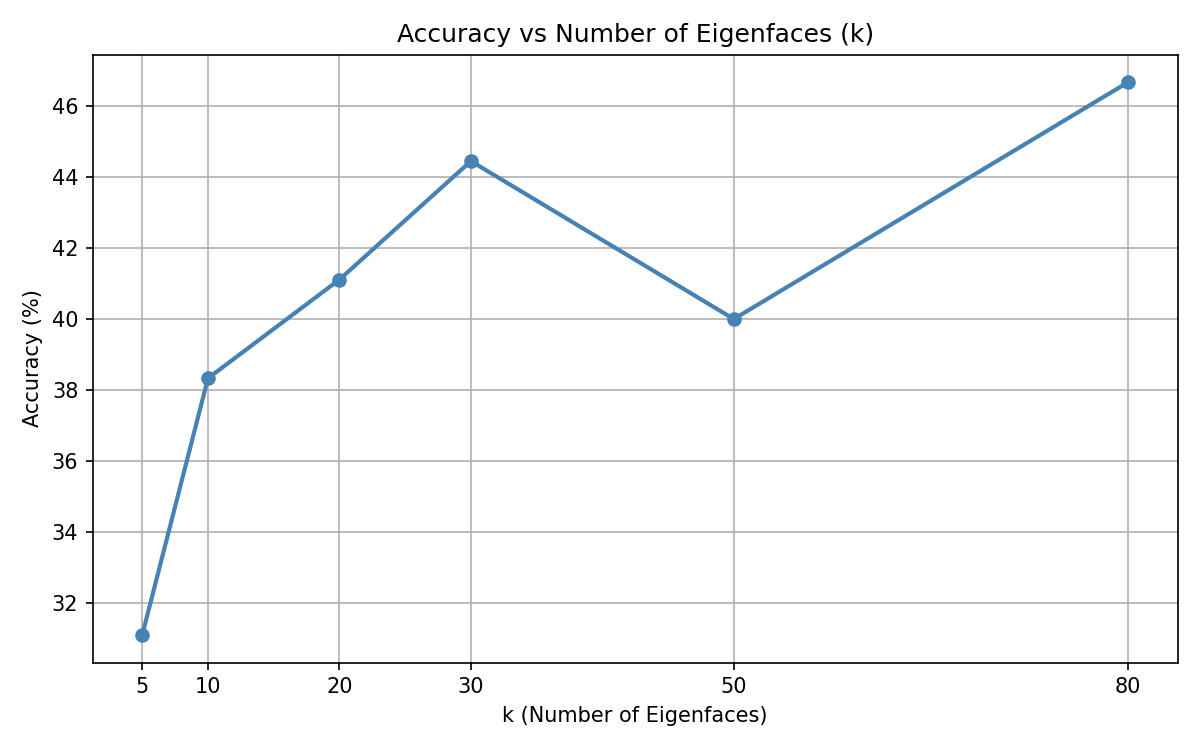
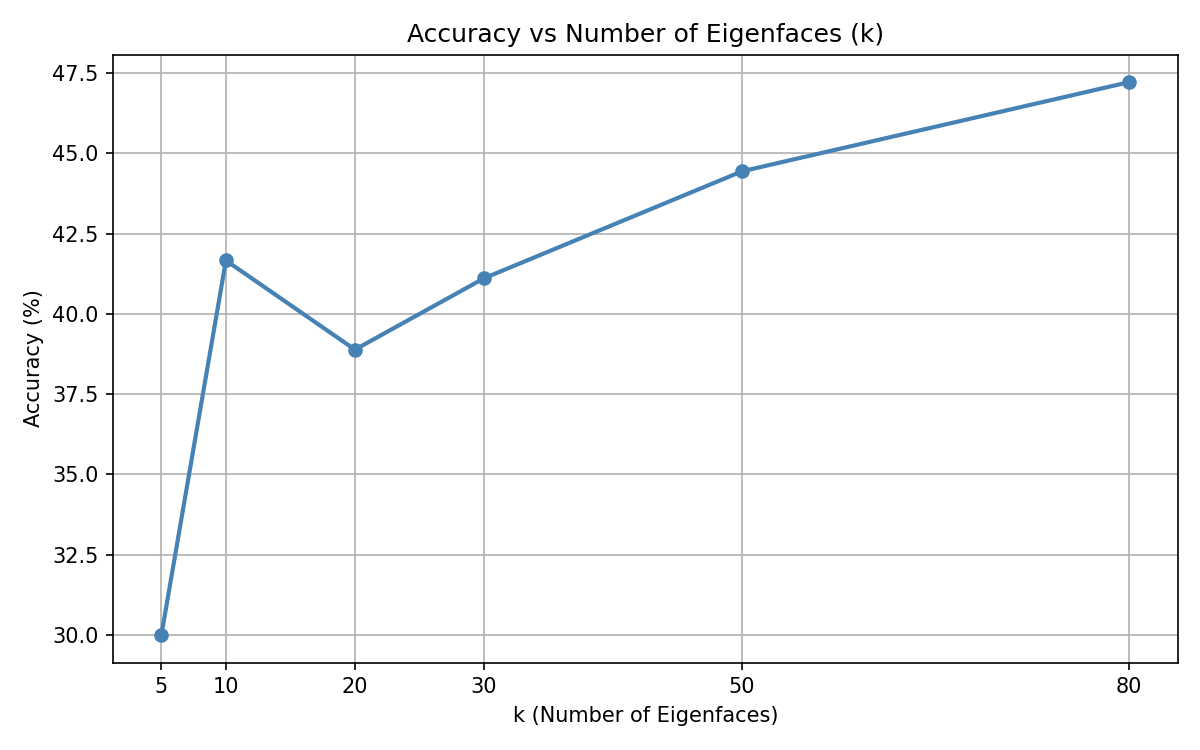
remove pycache

diff --git a/train.py b/train.py
@@ -1,34 +1,32 @@
-import numpy as np
+import numpy as np  
 import matplotlib.pyplot as plt
 from sklearn.model_selection import train_test_split
 from sklearn.preprocessing import label_binarize
 from utils import load_dataset
 from pca import *
 from ann import ANN
-
-# ── CONFIG ──────────────────────────────────────────────────────
-DATASET_PATH = "dataset/faces"  # path to dataset folder
+ 
+DATASET_PATH = "dataset/faces"  
 IMG_SIZE = (50, 50)
-K_VALUES = [5, 10, 20, 30, 50, 80]   # values of k to test
-IMPOSTER_THRESHOLD = 50.0             # Euclidean distance threshold for imposters
+K_VALUES = [5, 10, 20, 30, 50, 80]   
+IMPOSTER_THRESHOLD = 50.0              
 HIDDEN_SIZE = 128
 EPOCHS = 1000
 LR = 0.01
-# ────────────────────────────────────────────────────────────────
-
-# Load data
+ 
+ 
 print("Loading dataset...")
 face_db, labels, label_names = load_dataset(DATASET_PATH, IMG_SIZE)
 n_classes = len(label_names)
 print(f"  Total images: {face_db.shape[1]}, Classes: {n_classes}")
 
-# Train/test split (60/40)
+ 
 X_train, X_test, y_train, y_test = train_test_split(
     face_db.T, labels, test_size=0.4, stratify=labels, random_state=42
 )
-X_train, X_test = X_train.T, X_test.T   # back to (mn, samples)
+X_train, X_test = X_train.T, X_test.T   
 
-# PCA Steps
+ 
 mean_face = compute_mean(X_train)
 phi_train = mean_zero(X_train, mean_face)
 phi_test  = mean_zero(X_test,  mean_face)
@@ -41,25 +39,21 @@ for k in K_VALUES:
     print(f"\n── k = {k} ──")
     V_k = get_feature_vectors(eigenvectors, k)
     eigenfaces = compute_eigenfaces(V_k, phi_train)
-    
-    # Signatures (projected features)
-    Omega_train = compute_signatures(eigenfaces, phi_train)  # (k, train_samples)
-    Omega_test  = eigenfaces @ phi_test                       # (k, test_samples)
-
-    # One-hot encode labels
-    Y_train_oh = label_binarize(y_train, classes=range(n_classes)).T  # (classes, samples)
-
-    # Build and train ANN
+ 
+    Omega_train = compute_signatures(eigenfaces, phi_train)   
+    Omega_test  = eigenfaces @ phi_test                          
+ 
+    Y_train_oh = label_binarize(y_train, classes=range(n_classes)).T   
+ 
     ann = ANN(input_size=k, hidden_size=HIDDEN_SIZE, output_size=n_classes, lr=LR)
     ann.train(Omega_train, Y_train_oh, epochs=EPOCHS)
-
-    # Evaluate
+ 
     preds = ann.predict(Omega_test)
     acc = np.mean(preds == y_test) * 100
     accuracies.append(acc)
     print(f"  Accuracy at k={k}: {acc:.2f}%")
 
-# Plot Accuracy vs k
+ 
 plt.figure(figsize=(8, 5))
 plt.plot(K_VALUES, accuracies, marker='o', linewidth=2, color='steelblue')
 plt.title("Accuracy vs Number of Eigenfaces (k)")

diff --git a/test.py b/test.py
@@ -4,19 +4,17 @@ import os
 from utils import load_dataset
 from pca import *
 from ann import ANN
-from sklearn.model_selection import train_test_split
-from sklearn.preprocessing import label_binarize
-
-# ── CONFIG ──────────────────────────────────────────────────────
-DATASET_PATH    = "dataset/faces"  # path to dataset folder
-IMPOSTER_PATH   = "imposters"   # Folder with imposter images
+from sklearn.model_selection import train_test_split 
+from sklearn.preprocessing import label_binarize 
+ 
+DATASET_PATH    = "dataset/faces"  
+IMPOSTER_PATH   = "imposters"   
 IMG_SIZE        = (50, 50)
-K               = 30            # Best k from part (a)
+K               = 30            
 HIDDEN_SIZE     = 128
 EPOCHS          = 1000
 LR              = 0.01
-CONFIDENCE_THRESHOLD = 0.70   # If max softmax < this → imposter
-# ────────────────────────────────────────────────────────────────
+CONFIDENCE_THRESHOLD = 0.70  
 
 face_db, labels, label_names = load_dataset(DATASET_PATH, IMG_SIZE)
 n_classes = len(label_names)
@@ -41,8 +39,8 @@ ann.train(Omega_train, Y_train_oh, epochs=EPOCHS)
 def recognize(img_path, ann, eigenfaces, mean_face, label_names, threshold=CONFIDENCE_THRESHOLD):
     img = cv2.imread(img_path, cv2.IMREAD_GRAYSCALE)
     img = cv2.resize(img, IMG_SIZE)
-    omega = project_test_face(eigenfaces, img, mean_face)  # (k, 1)
-    proba = ann.predict_proba(omega)                        # (n_classes, 1)
+    omega = project_test_face(eigenfaces, img, mean_face)   
+    proba = ann.predict_proba(omega)                        
     max_conf = np.max(proba)
     pred_label = np.argmax(proba)
     
@@ -50,8 +48,7 @@ def recognize(img_path, ann, eigenfaces, mean_face, label_names, threshold=CONFI
         return "IMPOSTER (Not Enrolled)", max_conf
     else:
         return label_names[pred_label], float(max_conf)
-
-# Test on known test set
+ 
 print("\n── Known faces test ──")
 for i in range(min(5, X_test.shape[1])):
     face_img = X_test[:, i].reshape(IMG_SIZE)
@@ -62,7 +59,6 @@ for i in range(min(5, X_test.shape[1])):
     actual = label_names[y_test[i]]
     print(f"  Actual: {actual:15s} | Predicted: {pred:15s} | Confidence: {conf:.2f}")
 
-# Test on imposters
 if os.path.exists(IMPOSTER_PATH):
     print("\n── Imposter test ──")
     for img_file in os.listdir(IMPOSTER_PATH):

diff --git a/utils.py b/utils.py
@@ -22,11 +22,11 @@ def load_dataset(dataset_path, img_size=(50, 50)):
             img = cv2.imread(img_path, cv2.IMREAD_GRAYSCALE)
             if img is None:
                 continue
-            img = cv2.resize(img, img_size)        # resize to fixed size
-            col_vec = img.flatten().astype(np.float64)  # flatten → column vector (mn,)
+            img = cv2.resize(img, img_size)        
+            col_vec = img.flatten().astype(np.float64)  
             face_db.append(col_vec)
             labels.append(label_idx)
 
-    face_db = np.array(face_db).T   # shape: (mn, p)
+    face_db = np.array(face_db).T   
     labels = np.array(labels)
     return face_db, labels, label_names

diff --git a/README.md b/README.md
@@ -1,1 +1,29 @@
-# face_recognition
+# Face Recognition Using PCA and ANN
+
+## Overview
+This project implements a Face Recognition System using Principal Component Analysis (PCA) and an Artificial Neural Network (ANN). PCA is used to extract eigenface features, and ANN is used for classification.
+
+## Technologies Used
+- Python
+- NumPy
+- OpenCV
+- Scikit-learn
+- Matplotlib
+
+## Features
+- Face dataset preprocessing
+- PCA-based feature extraction
+- ANN-based face classification
+- Accuracy comparison for different values of k
+- Imposter detection for unknown faces
+
+## Results
+The system was trained using 60% of the dataset and tested on 40% of the dataset. Accuracy was evaluated for multiple PCA feature dimensions (k values), and the results were plotted in accuracy_vs_k.png.
+
+## How to Run
+
+Training:
+python3 train.py
+
+Testing:
+python3 test.py